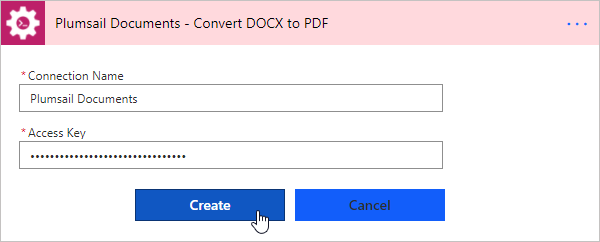
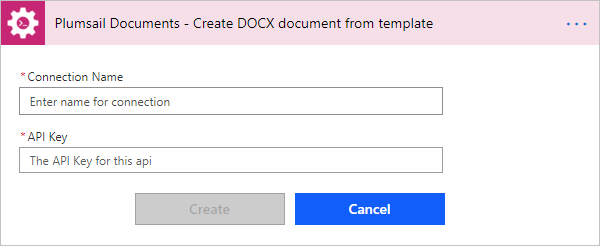
Changed getting started pictures and text

diff --git a/source/conf.py b/source/conf.py
@@ -1,7 +1,7 @@
 #!/usr/bin/env python3
 # -*- coding: utf-8 -*-
 #
-# Plumsail Actions documentation build configuration file, created by
+# Plumsail Documents documentation build configuration file, created by
 # sphinx-quickstart on Tue Apr 12 16:52:35 2016.
 #
 # This file is execfile()d with the current directory set to its
@@ -51,8 +51,8 @@ source_suffix = '.rst'
 master_doc = 'index'
 
 # General information about the project.
-project = 'Plumsail Actions'
-copyright = '2017, Plumsail'
+project = 'Plumsail Documents'
+copyright = '2018, Plumsail'
 author = 'Plumsail'
 
 # The version info for the project you're documenting, acts as replacement for
@@ -141,13 +141,13 @@ extensions.append("guzzle_sphinx_theme")
 # Guzzle theme options (see theme.conf for more information)
 html_theme_options = {
     # Set the name of the project to appear in the sidebar
-    "project_nav_name": "Plumsail Actions",
+    "project_nav_name": "Plumsail Documents",
      # Set your Disqus short name to enable comments
     "disqus_comments_shortname": "plumsail",
 
     # Set you GA account ID to enable tracking
     "google_analytics_account": "UA-36215023-2",
-    "base_url": "https://plumsail.com/docs/actions/v1.x/" #for sitemap
+    "base_url": "https://plumsail.com/docs/documents/v1.x/" #for sitemap
 }
 #-----
 
@@ -161,7 +161,7 @@ html_theme_options = {
 
 # The name for this set of Sphinx documents.
 # "<project> v<release> documentation" by default.
-#html_title = 'Plumsail Actions'
+#html_title = 'Plumsail Documents'
 
 # A shorter title for the navigation bar.  Default is the same as html_title.
 #html_short_title = None
@@ -249,7 +249,7 @@ html_show_sphinx = False
 #html_search_scorer = 'scorer.js'
 
 # Output file base name for HTML help builder.
-htmlhelp_basename = 'PlumsailActions'
+htmlhelp_basename = 'PlumsailDocuments'
 
 # -- Options for LaTeX output ---------------------------------------------
 
@@ -271,7 +271,7 @@ latex_elements = {
 # (source start file, target name, title,
 #  author, documentclass [howto, manual, or own class]).
 latex_documents = [
-    (master_doc, 'PlumsailActions.tex', 'Plumsail Actions Documentation',
+    (master_doc, 'PlumsailDocuments.tex', 'Plumsail Documents Documentation',
      'Plumsail', 'manual'),
 ]
 
@@ -301,7 +301,7 @@ latex_documents = [
 # One entry per manual page. List of tuples
 # (source start file, name, description, authors, manual section).
 man_pages = [
-    (master_doc, 'actions', 'Plumsail Actions Documentation',
+    (master_doc, 'documents', 'Plumsail Documents Documentation',
      [author], 1)
 ]
 
@@ -315,8 +315,8 @@ man_pages = [
 # (source start file, target name, title, author,
 #  dir menu entry, description, category)
 texinfo_documents = [
-    (master_doc, 'actions', 'Plumsail Actions Documentation',
-     author, 'actions', 'Oneline description of project.',
+    (master_doc, 'documents', 'Plumsail Documents Documentation',
+     author, 'documents', 'Oneline description of project.',
      'Miscellaneous'),
 ]
 

diff --git a/source/general/sla.rst b/source/general/sla.rst
@@ -1,24 +1,24 @@
-Service Level Agreement
+Service level agreement
 =======================
 
-.. note:: For Actions running on "Whale" plan, we guarantee that the uptime will be 99% of the time.
+.. note:: For Plumsail Documents running on "Enterprise" plan, we guarantee that the uptime will be 99% of the time.
 
 Terms
 ~~~~~
 
-This Service Level Agreement for Plumsail Actions (this “SLA”) is a part of `Plumsail License Agreement <https://plumsail.com/license-agreement/>`_ (the “Agreement”). This SLA applies to the "Whale" plan of the Plumsail Actions listed herein (an “Actions”) but does not apply to the rest of pricing plans.
+This Service Level Agreement for Plumsail Documents (this “SLA”) is a part of `Plumsail License Agreement <https://plumsail.com/license-agreement/>`_ (the “Agreement”). This SLA applies to the "Enterprise" plan of the Plumsail Documents listed herein (an “Documents”) but does not apply to the rest of pricing plans.
 
-If we do not achieve and maintain the Service Levels for Actions as described in this SLA, then you may be eligible for a credit towards a portion of your monthly service fees. We will not change the terms of your SLA during your subscription period. If you renew the subscription, the current version of SLA will be applied at the time of renewal.
+If we do not achieve and maintain the Service Levels for Documents as described in this SLA, then you may be eligible for a credit towards a portion of your monthly service fees. We will not change the terms of your SLA during your subscription period. If you renew the subscription, the current version of SLA will be applied at the time of renewal.
 
 *Error Code* means an indication that an operation has failed, such as an HTTP status code in the 5xx range.
 
-*Downtime* is the time during which the Actions is unavailable to be triggered within a given Actions subscription. Actions is considered unavailable for a given Actions subscription when calls to Actions return Error Codes 5xx or an Error Code 404.
+*Downtime* is the time during which the Documents is unavailable to be triggered within a given Documents subscription. Documents is considered unavailable for a given Documents subscription when calls to Documents return Error Codes 5xx or an Error Code 404.
 
 *Incident* means any event or events that result in Downtime.
 
 *SLA Credit* is the percentage of the Monthly Subscription Fees credited to you following Plumsail’s claim approval.
 
-*Monthly Subscription Fees* means the total fees paid by you for Actions that are applied to the month in which an SLA Credit is owed.
+*Monthly Subscription Fees* means the total fees paid by you for Documents that are applied to the month in which an SLA Credit is owed.
 
 In order for Plumsail to consider a claim, you must submit the claim to Plumsail customer support including all information necessary for Plumsail to verify the claim. It includes, but not restricted to: 
 
@@ -48,9 +48,9 @@ This SLA is not applicable to any performance or availability issues:
 
 2. That result from the use of services, hardware, or software not provided by us, including, but not limited to, issues resulting from inadequate bandwidth or related to third-party software or services;
 
-3. Caused by your use of a Actions after we advised you to change your use of the Actions if you did not change your use as we advised;
+3. Caused by your use of a Documents after we advised you to change your use of the Documents if you did not change your use as we advised;
 
-4. That result from your rejection to follow to any required configurations, use supported platforms, follow any policies for acceptable use, or your use of the Actions in a manner inconsistent with the features and functionality of the Actions. For example, attempts to perform operations that are not supported or inconsistent with our published documentation;
+4. That result from your rejection to follow to any required configurations, use supported platforms, follow any policies for acceptable use, or your use of the Documents in a manner inconsistent with the features and functionality of the Documents. For example, attempts to perform operations that are not supported or inconsistent with our published documentation;
 
 5. That result from your attempts to perform operations that exceed assigned quotas or that resulted from our throttling of suspected abusive behavior;
 
@@ -58,7 +58,7 @@ This SLA is not applicable to any performance or availability issues:
 
 7. For not paid license. For example, for trial or partner licenses.
 
-This SLA applies to the "Whale" plan of the Actions but does not apply to the rest of plans.
+This SLA applies to the "Enterprise" plan of the Documents but does not apply to the rest of plans.
 
 Version history
 ~~~~~~~~~~~~~~~

diff --git a/source/getting-started/use-from-flow.rst b/source/getting-started/use-from-flow.rst
@@ -1,27 +1,14 @@
 Use in Microsoft Flow
 =======================================
 
-Pick right connector
---------------------
+Find `Plumsail Documents <https://emea.flow.microsoft.com/en-us/connectors/shared_plumsail/plumsail-documents/>`_ in the list of available Microsoft Flow connectors. Then you can search for "Plumsail" in you Flow and add appropriate action:
 
-There are two connectors available in Plumsail Actions:
-
-- `Plumsail Documents connector <../flow/actions/document-processing.html>`_ - provides a set of actions for operations with Documents.
-- `Plumsail SharePoint connector <../flow/actions/sharepoint-processing.html>`_ - provides a set of actions for operations with SharePoint.
-
-Create your first Flow
-----------------------
-
-Then you can search for "Plumsail" in you Flow and add appropriate action:
-
-.. image:: ../_static/img/getting-started/sp-actions-list.png
+.. image:: ../_static/img/getting-started/actions-list.png
    :alt: Screen of Plumsail Actions
 
 When you add an action for the first time you will be asked for *'Connection Name'* and for *'Access Key'*. You can type any name for the connection. For example, *'Plumsail SharePoint'*. 
 
 Then `create an API key in your Plumsail Account page <sign-up.html>`_ and paste it to *'Access Key'* input. 
-
-.. note:: There are different types of keys for different connectors. You need to copy an API key for the particular connector.
 
 .. image:: ../_static/img/getting-started/sp-create-flow-connection.png
    :alt: Screen of Plumsail Actions
@@ -32,8 +19,8 @@ Examples of Flows
 Once you clicked *'Create'* you can use Plumsail Actions in your Microsoft Flows. Review *'Microsoft Flow examples'* to learn how to use them:
 
 .. toctree::      
-      :name: toc-microsoft-flow-examples
-      :maxdepth: 2
-            
-      ../flow/how-tos/sharepoint/index
-      ../flow/how-tos/documents/index
+  :name: toc-microsoft-flow-examples
+  :maxdepth: 2
+        
+  ../flow/how-tos/sharepoint/index
+  ../flow/how-tos/documents/index

diff --git a/source/index.rst b/source/index.rst
@@ -3,8 +3,8 @@
    You can adapt this file completely to your liking, but it should at least
    contain the root `toctree` directive.
 
-Plumsail Actions Documentation
-==============================
+Plumsail Documents Documentation
+================================
       
 .. toctree::
   :hidden:
@@ -46,14 +46,12 @@ Plumsail Actions Documentation
     :caption: General 
     :name: generaltoc
     :maxdepth: 1
-
-    Support <https://plumsail.com/actions/support/>      
+    
     general/version-history
     general/licensing-details
-    general/upgrade-renew
-    general/sla
     general/security-policy
-    Privacy policy <https://plumsail.com/privacy-policy/actions-privacy-policy/>  
+    general/upgrade-renew
+    general/sla    
 
   .. toctree::
     :caption: REST API

diff --git a/source/general/upgrade-renew.rst b/source/general/upgrade-renew.rst
@@ -1,5 +1,5 @@
-How to upgrade or renew your subscription
-#########################################
+How to upgrade or renew subscription
+####################################
 
 To upgrade/renew a subscription you need to sign into your personal store account. Navigate to https://secure.avangate.com/myaccount and sign in using your email and password. If you don’t have a password, you can easily receive it. Just click “Create New Account” and specify your order number or email address which you used to purchase the product. Avangate will send you the link to get your password.
 

diff --git a/source/general/security-policy.rst b/source/general/security-policy.rst
@@ -1,5 +1,9 @@
-Security policy
-###############
+Data protection and security
+############################
+
+Privacy Policy
+--------------
+General information about privacy protection can be found in the `Plumsail Documents Privacy Policy <https://plumsail.com/privacy-policy/actions-privacy-policy/>`_.
 
 Application security
 --------------------

diff --git a/README.rst b/README.rst
@@ -14,7 +14,7 @@ Or just convert them to PDF.
 Publishing locations
 --------------------
 
-`Plumsail Actions documentation <https://plumsail.com/docs/documents/v1.x/index.html>`_
+`Plumsail Documents documentation <https://plumsail.com/docs/documents/v1.x/index.html>`_
 
 Copyright
 ---------
